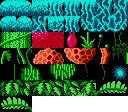
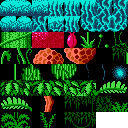
Mapa definitivo hehe

diff --git a/tilemap.tsx b/tilemap.tsx
@@ -1,4 +1,4 @@
 <?xml version="1.0" encoding="UTF-8"?>
-<tileset version="1.10" tiledversion="1.11.2" name="tilemap" tilewidth="16" tileheight="16" tilecount="56" columns="8">
- <image source="tiles.png" width="128" height="112"/>
+<tileset version="1.10" tiledversion="1.11.2" name="tilemap" tilewidth="16" tileheight="16" tilecount="10800" columns="8">
+ <image source="tiles.png" width="128" height="128"/>
 </tileset>

diff --git a/2DGame/02-Bubble/02-Bubble/Scene.cpp b/2DGame/02-Bubble/02-Bubble/Scene.cpp
@@ -8,8 +8,8 @@
 #define SCREEN_X 32
 #define SCREEN_Y 16
 
-#define INIT_PLAYER_X_TILES 40
-#define INIT_PLAYER_Y_TILES 20
+#define INIT_PLAYER_X_TILES 35
+#define INIT_PLAYER_Y_TILES 33
 
 
 Scene::Scene()
@@ -30,7 +30,7 @@ Scene::~Scene()
 void Scene::init()
 {
 	initShaders();
-	map = TileMap::createTileMap("levels/mapa.txt", glm::vec2(SCREEN_X, SCREEN_Y), texProgram);
+	map = TileMap::createTileMap("levels/mapa2.txt", glm::vec2(SCREEN_X, SCREEN_Y), texProgram);
 	player = new Player();
 	player->init(glm::ivec2(SCREEN_X, SCREEN_Y), texProgram);
 	player->setPosition(glm::vec2(INIT_PLAYER_X_TILES * map->getTileSize(), INIT_PLAYER_Y_TILES * map->getTileSize()));
